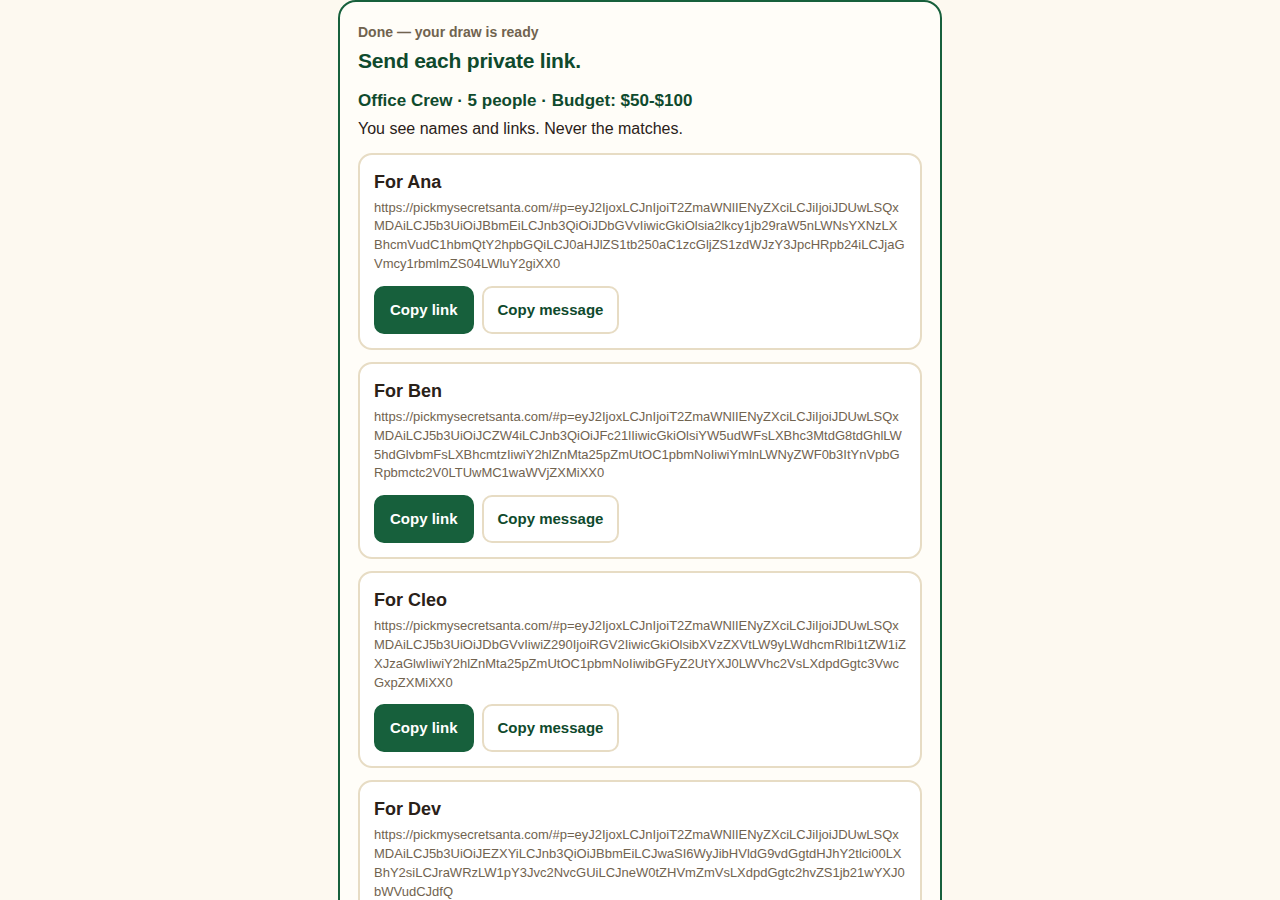
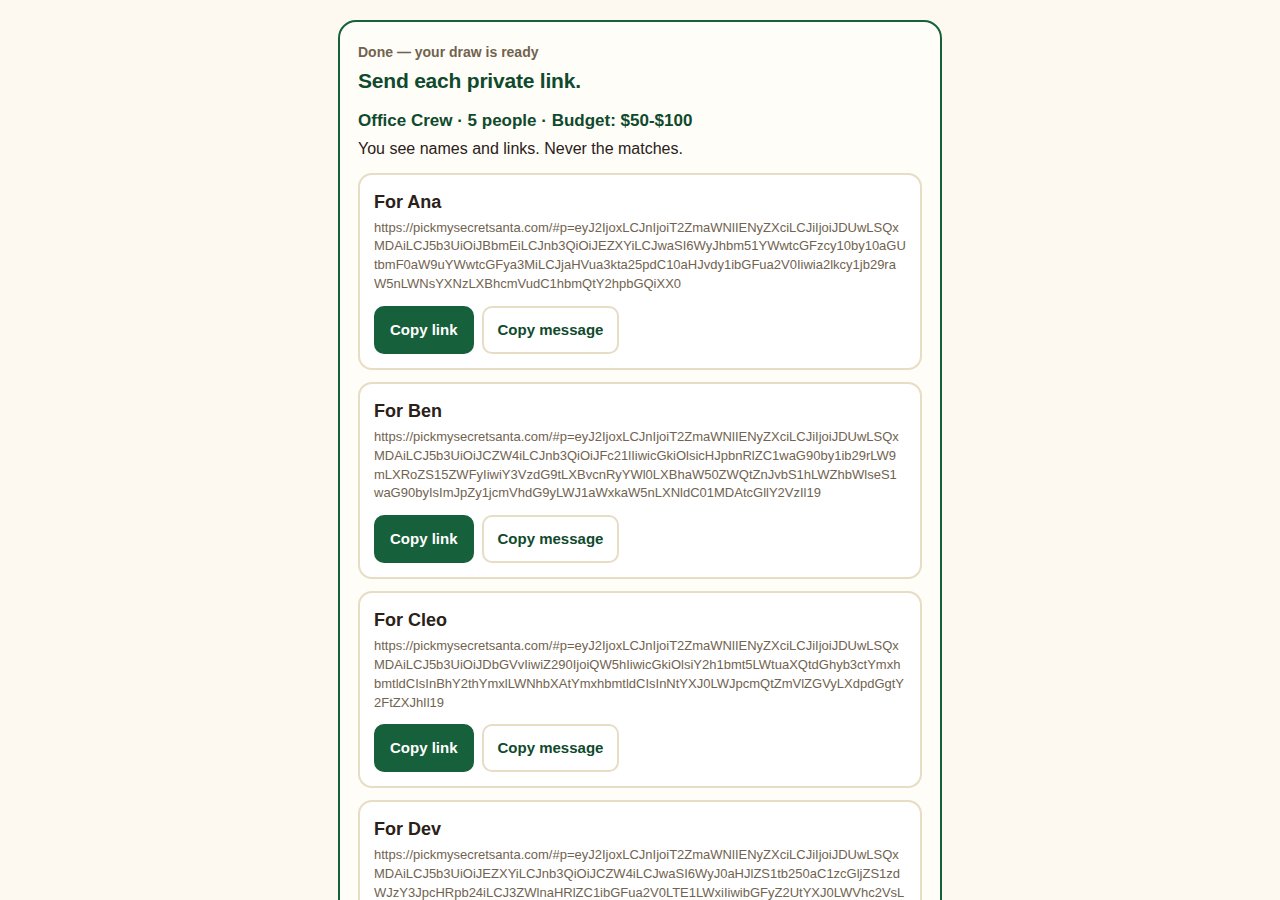
Bulk add for big groups + Surprise me interest
Step 2 gains 'Add many at once': paste one person per line (optional
interest after a comma or tab) or pick a .csv/.txt file, parsed fully
in the browser. Interests match the dropdown list in any case; unknown
interests import as blank and are counted in a plain summary line.
The 30-person cap counts manual and imported rows together.

'Surprise me' joins the interest dropdown as its own stored value;
pickGifts treats it like a blank hint (any interest can win), so pick
outcomes for every existing value are unchanged.

QA: core 246/246, browser flow 65/65, incl. 25-person mobile import
to a finished draw, cap enforcement at 30, CSV two-column import.

Changed region(s): [[0.25, 0.0, 0.75, 1.0]]

diff --git a/site/app.js b/site/app.js
@@ -7,6 +7,7 @@
 
   var INTERESTS = [
     ["", "What they like (optional)"],
+    ["surprise", "Surprise me"],
     ["cooking", "Cooking"],
     ["tech", "Tech"],
     ["outdoors", "Outdoors"],
@@ -240,6 +241,111 @@
     }
   }
 
+  /* Bulk add: paste a list or pick a file. All parsing happens
+     in this page. Names and interests never leave the browser.
+     One person per line. An interest can follow a comma (or a
+     tab, the way a spreadsheet pastes). */
+  function interestValue(raw) {
+    // The INTERESTS value for a typed word, or null when the word
+    // is not on the list. Matches the stored value and the label,
+    // in any case: "cooking", "Cooking", "cozy" and "Cozy things"
+    // all land on the same pick.
+    var key = String(raw || "").trim().toLowerCase();
+    if (!key) return "";
+    for (var i = 0; i < INTERESTS.length; i++) {
+      if (INTERESTS[i][0].toLowerCase() === key ||
+          INTERESTS[i][1].toLowerCase() === key) return INTERESTS[i][0];
+    }
+    return null;
+  }
+
+  function splitCsvLine(line) {
+    // One CSV line -> fields. Quotes can wrap a field that holds
+    // a comma. Good enough for a hand-made group list.
+    var fields = [], cur = "", quoted = false;
+    for (var i = 0; i < line.length; i++) {
+      var ch = line[i];
+      if (quoted) {
+        if (ch === '"') {
+          if (line[i + 1] === '"') { cur += '"'; i++; }
+          else quoted = false;
+        } else cur += ch;
+      } else if (ch === '"') {
+        quoted = true;
+      } else if (ch === ",") {
+        fields.push(cur); cur = "";
+      } else cur += ch;
+    }
+    fields.push(cur);
+    return fields.map(function (f) { return f.trim(); });
+  }
+
+  function parseBulk(text) {
+    var people = [], noName = 0;
+    String(text || "").split(/\r\n|\r|\n/).forEach(function (line) {
+      if (!line.trim()) return; // blank lines are just skipped
+      var fields = line.indexOf("\t") !== -1 && line.indexOf(",") === -1
+        ? line.split("\t").map(function (f) { return f.trim(); })
+        : splitCsvLine(line);
+      var name = (fields[0] || "").slice(0, 40);
+      if (!name) { noName++; return; }
+      var person = { name: name, interest: "", unknown: false };
+      if (fields.length > 1 && fields[1]) {
+        var v = interestValue(fields[1]);
+        if (v === null) person.unknown = true;
+        else person.interest = v;
+      }
+      people.push(person);
+    });
+    return { people: people, noName: noName };
+  }
+
+  function importBulk(text) {
+    var box = el("peopleRows");
+    var parsed = parseBulk(text);
+    var summary = el("bulkSummary");
+    if (!parsed.people.length && !parsed.noName) {
+      summary.textContent = "No names found. Paste one name on each line.";
+      summary.hidden = false;
+      return;
+    }
+    var added = 0, capped = 0, unknown = 0;
+    parsed.people.forEach(function (p) {
+      // Fill a blank row first, so a big group does not leave a
+      // screen of empty rows behind it.
+      var target = null;
+      Array.prototype.forEach.call(box.children, function (row) {
+        if (!target && !row.querySelector(".pname").value.trim()) target = row;
+      });
+      if (!target) {
+        if (box.children.length >= MAX_PEOPLE) { capped++; return; }
+        target = personRow();
+        box.appendChild(target);
+      }
+      target.querySelector(".pname").value = p.name;
+      target.querySelector(".phint").value = p.interest;
+      added++;
+      if (p.unknown) unknown++;
+    });
+    var parts = [];
+    parts.push("Added " + added + (added === 1 ? " person." : " people."));
+    if (unknown) {
+      parts.push(unknown + (unknown === 1 ? " name had" : " names had") +
+        " an interest we do not know. Added with no interest.");
+    }
+    if (parsed.noName) {
+      parts.push(parsed.noName + (parsed.noName === 1 ? " line" : " lines") +
+        " skipped. Each line needs a name first.");
+    }
+    if (capped) {
+      parts.push(capped + (capped === 1 ? " line" : " lines") +
+        " skipped — over the 30 person limit.");
+    }
+    summary.textContent = parts.join(" ");
+    summary.hidden = false;
+    updatePeopleCount();
+  }
+
   function initStep2() {
     var box = el("peopleRows");
     for (var i = 0; i < 4; i++) box.appendChild(personRow());
@@ -253,6 +359,34 @@
       var row = personRow();
       box.appendChild(row);
       row.querySelector(".pname").focus();
+    });
+    el("bulkToggle").addEventListener("click", function () {
+      var panel = el("bulkPanel");
+      panel.hidden = !panel.hidden;
+      if (!panel.hidden) el("bulkText").focus();
+    });
+    el("bulkClose").addEventListener("click", function () {
+      el("bulkPanel").hidden = true;
+    });
+    el("bulkAdd").addEventListener("click", function () {
+      var text = el("bulkText").value;
+      if (!text.trim()) {
+        var s = el("bulkSummary");
+        s.textContent = "Paste names first, one on each line.";
+        s.hidden = false;
+        return;
+      }
+      importBulk(text);
+      el("bulkText").value = "";
+    });
+    el("bulkFile").addEventListener("change", function () {
+      var input = el("bulkFile");
+      var f = input.files && input.files[0];
+      if (!f) return;
+      var reader = new FileReader();
+      reader.onload = function () { importBulk(String(reader.result || "")); };
+      reader.readAsText(f);
+      input.value = "";
     });
     el("back1").addEventListener("click", function () { showStep(1); });
     el("toStep3").addEventListener("click", function () {

diff --git a/site/index.html b/site/index.html
@@ -96,6 +96,18 @@
     border:2px dashed var(--line);background:transparent;color:var(--pine-dark);
     border-radius:11px;padding:12px 16px;min-height:48px;font-weight:700;font-size:16px;
   }
+  .btnrow{display:flex;gap:8px;flex-wrap:wrap}
+  .bulkpanel{
+    border:2px solid var(--line);border-radius:14px;background:#fff;
+    padding:14px;margin-top:12px;
+  }
+  .bulkpanel[hidden]{display:none}
+  textarea{
+    font:inherit;font-size:16px;color:var(--ink);background:#fff;
+    border:2px solid var(--line);border-radius:11px;padding:12px;width:100%;
+  }
+  textarea:focus{outline:3px solid var(--gold);outline-offset:1px;border-color:var(--gold)}
+  input[type="file"]{font:inherit;font-size:15px;width:100%}
   .navrow{display:flex;gap:10px;margin-top:20px;flex-wrap:wrap}
   .primary{
     background:var(--pine);color:#fff;border:0;border-radius:12px;
@@ -244,7 +256,22 @@
         <p class="progress">Step 2 of 3</p>
         <h2>Who is in?</h2>
         <div id="peopleRows"></div>
-        <button class="ghost" id="addPerson" type="button">+ Add a person</button>
+        <div class="btnrow">
+          <button class="ghost" id="addPerson" type="button">+ Add a person</button>
+          <button class="ghost" id="bulkToggle" type="button">Add many at once</button>
+        </div>
+        <div class="bulkpanel" id="bulkPanel" hidden>
+          <label class="lab" for="bulkText">Paste names, one on each line</label>
+          <p class="hint" style="margin:0 0 8px">Add an interest after a comma if you want. Like this: Maria, cooking</p>
+          <textarea id="bulkText" rows="6" placeholder="Maria, cooking&#10;Sam&#10;Jo, surprise me"></textarea>
+          <div class="btnrow" style="margin-top:10px">
+            <button class="secondary" id="bulkAdd" type="button">Add these people</button>
+            <button class="ghost" id="bulkClose" type="button">Close</button>
+          </div>
+          <label class="lab" for="bulkFile">Or pick a list file (.csv or .txt)</label>
+          <input type="file" id="bulkFile" accept=".csv,.txt,text/csv,text/plain">
+          <p class="hint" id="bulkSummary" hidden></p>
+        </div>
         <p class="hint">Add at least three names. Two share a name? Add a last initial.</p>
         <p class="hint" id="peopleCount" hidden></p>
         <div class="err" id="err2" hidden></div>

diff --git a/site/core.js b/site/core.js
@@ -84,9 +84,13 @@
   function pickGifts(bank, band, interest, rand, usedIds) {
     var pool = bank.filter(function (idea) { return idea.budget === band; });
     if (!pool.length) pool = bank.slice();
+    // "surprise" is stored as its own value, so the record of what
+    // the person picked stays honest. It picks like a blank hint:
+    // any interest can win.
+    var want = interest === "surprise" ? "" : interest;
     function score(idea) {
       var s = 0;
-      if (interest && idea.interests.indexOf(interest) !== -1) s += 3;
+      if (want && idea.interests.indexOf(want) !== -1) s += 3;
       if (usedIds && usedIds[idea.id]) s -= 2;
       return s;
     }
